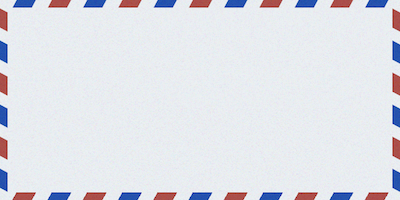
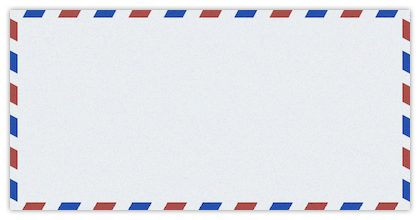
MessageBox 使用带阴影的背景图

Changed region(s): [[0.0, 0.0, 1.0, 1.0]]

diff --git a/template-qt/gui/MessageBox.h b/template-qt/gui/MessageBox.h
@@ -36,11 +36,11 @@ public:
      * @param borderImageVerticalStretch
      */
     static void message(const QString &msg, int width = 300, int height = 150,
-                        const QMargins &windowPaddings     = QMargins(4, 4, 4, 4),
-                        const QMargins &borderImageBorders = QMargins(8, 8, 8, 8),
+                        const QMargins &windowPaddings     = QMargins(12, 12, 12, 12),
+                        const QMargins &borderImageBorders = QMargins(18, 18, 18, 18),
                         const QString  &borderImagePath    = QString(":/image/top-window/colorful-border.png"),
-                        bool  borderImageHorizontalStretch = true,
-                        bool  borderImageVerticalStretch   = true);
+                        bool  borderImageHorizontalStretch = false,
+                        bool  borderImageVerticalStretch   = false);
 
     /**
      * @brief 显示模态确认对话框，会阻塞当前线程。
@@ -59,11 +59,11 @@ public:
      * @return 点击确认返回 true，点击取消返回 false
      */
     static bool confirm(const QString &msg, int width = 300, int height = 150,
-                        const QMargins &windowPaddings     = QMargins(4, 4, 4, 4),
-                        const QMargins &borderImageBorders = QMargins(8, 8, 8, 8),
+                        const QMargins &windowPaddings     = QMargins(12, 12, 12, 12),
+                        const QMargins &borderImageBorders = QMargins(18, 18, 18, 18),
                         const QString  &borderImagePath    = QString(":/image/top-window/colorful-border.png"),
-                        bool  borderImageHorizontalStretch = true,
-                        bool  borderImageVerticalStretch   = true);
+                        bool  borderImageHorizontalStretch = false,
+                        bool  borderImageVerticalStretch   = false);
 
 private:
     static void setWindowForMessageBox(TopWindow *window, int width, int height); // 设置 TopWindow 的属性
